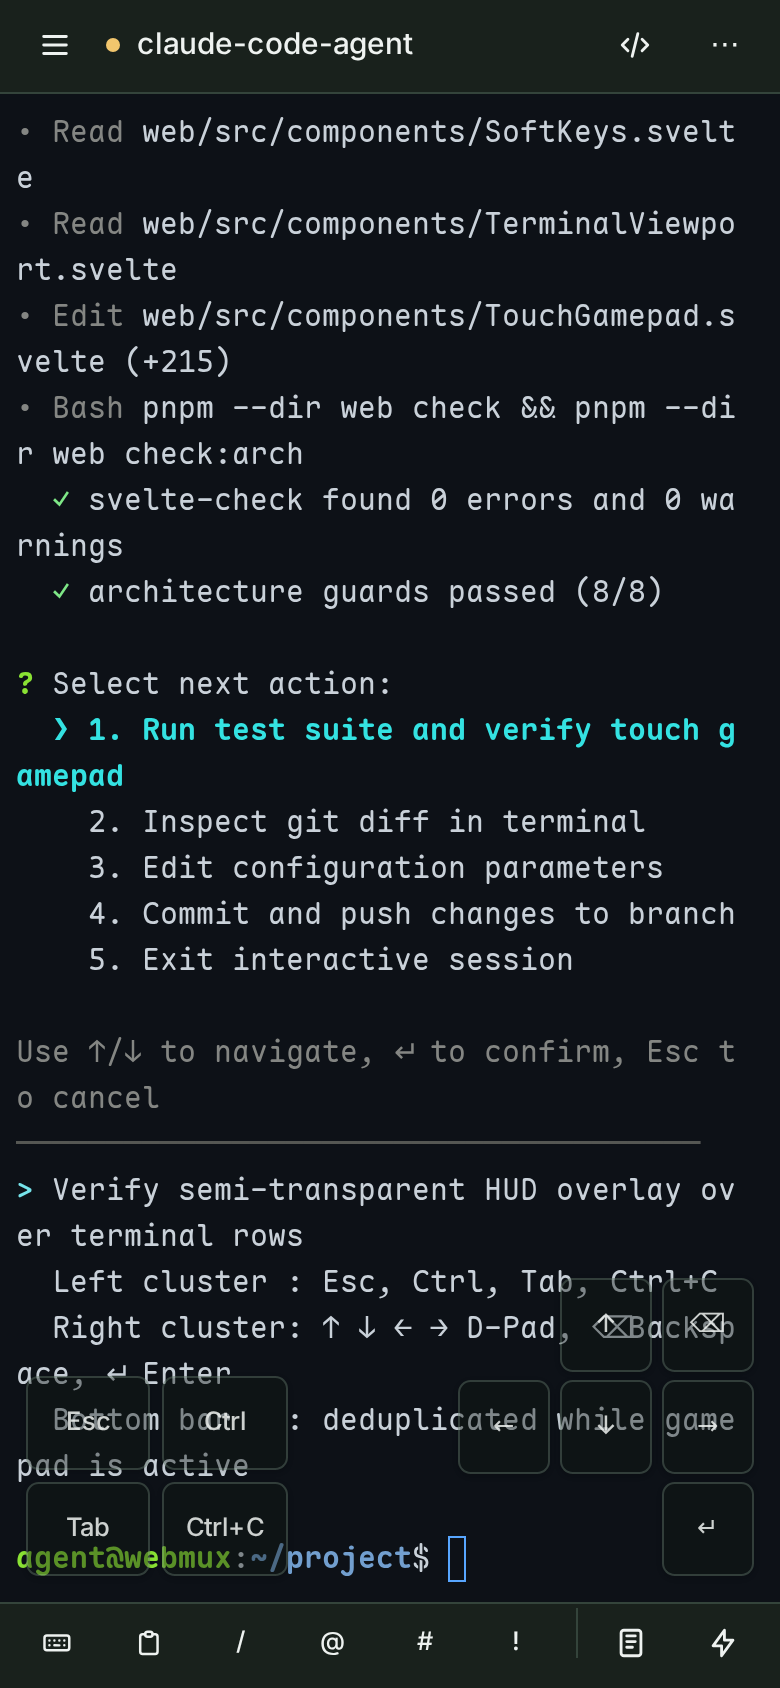
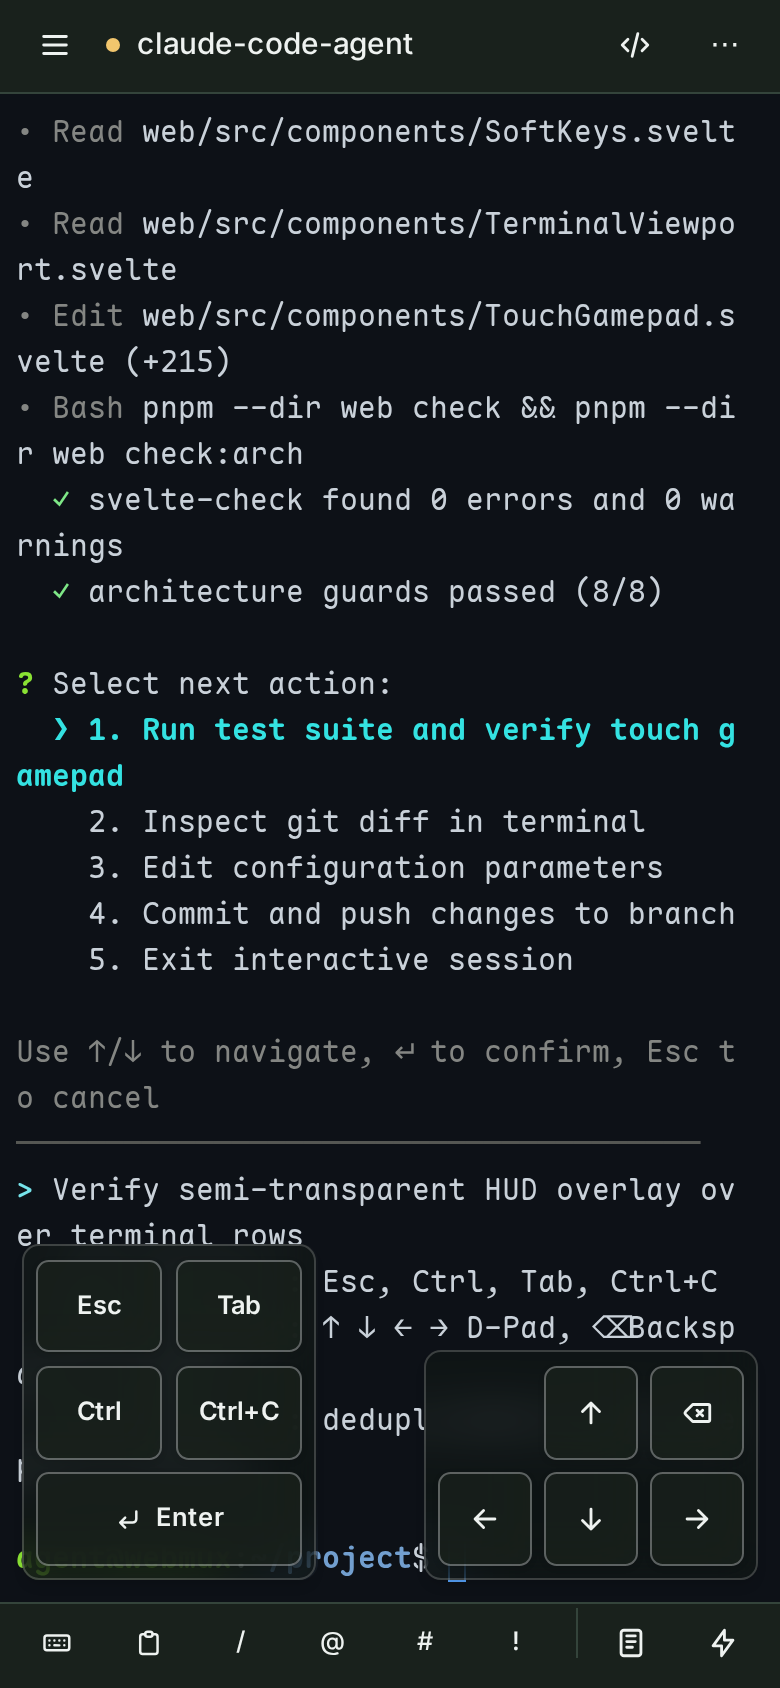
feat(web): refine touch gamepad HUD visibility and move Enter to left cluster

diff --git a/web/src/components/TouchGamepad.svelte b/web/src/components/TouchGamepad.svelte
@@ -1,5 +1,11 @@
 <script lang="ts">
   import { onDestroy } from "svelte";
+  import IconArrowDown from "~icons/tabler/arrow-down";
+  import IconArrowLeft from "~icons/tabler/arrow-left";
+  import IconArrowRight from "~icons/tabler/arrow-right";
+  import IconArrowUp from "~icons/tabler/arrow-up";
+  import IconBackspace from "~icons/tabler/backspace";
+  import IconCornerDownLeft from "~icons/tabler/corner-down-left";
   import { Button } from "$lib/components/ui/button";
   import type { Modifiers } from "../input";
 
@@ -150,11 +156,13 @@
 </script>
 
 <div
-  class="pointer-events-none absolute inset-x-3 bottom-3 z-10 flex items-end justify-between gap-2"
+  class="pointer-events-none absolute inset-x-2.5 bottom-2.5 z-10 flex items-end justify-between gap-2"
   role="toolbar"
   aria-label="终端浮动摇杆"
 >
-  <div class="pointer-events-auto grid grid-cols-2 gap-1.5">
+  <div
+    class="border-foreground/20 bg-background/55 pointer-events-auto grid grid-cols-2 gap-1.5 rounded-lg border p-1.5 shadow-md backdrop-blur-md"
+  >
     <Button
       variant="hud"
       size="sm"
@@ -166,6 +174,18 @@
         event.stopPropagation();
         send("\x1b");
       }}>Esc</Button
+    >
+    <Button
+      variant="hud"
+      size="sm"
+      data-gamepad-key="tab"
+      aria-label="Tab"
+      title="Tab"
+      onmousedown={keepFocus}
+      onclick={(event) => {
+        event.stopPropagation();
+        send("\t");
+      }}>Tab</Button
     >
     <Button
       variant="hud"
@@ -183,18 +203,6 @@
     <Button
       variant="hud"
       size="sm"
-      data-gamepad-key="tab"
-      aria-label="Tab"
-      title="Tab"
-      onmousedown={keepFocus}
-      onclick={(event) => {
-        event.stopPropagation();
-        send("\t");
-      }}>Tab</Button
-    >
-    <Button
-      variant="hud"
-      size="sm"
       data-gamepad-key="ctrl-c"
       aria-label="Ctrl+C"
       title="Ctrl+C"
@@ -204,13 +212,31 @@
         send("\x03");
       }}>Ctrl+C</Button
     >
+    <Button
+      variant="hud"
+      size="sm"
+      class="col-span-2 w-full"
+      data-gamepad-key="enter"
+      aria-label="回车"
+      title="回车"
+      onmousedown={keepFocus}
+      onclick={(event) => {
+        event.stopPropagation();
+        send("\r");
+      }}
+    >
+      <IconCornerDownLeft aria-hidden="true" />
+      <span>Enter</span>
+    </Button>
   </div>
 
-  <div class="pointer-events-auto grid grid-cols-3 gap-1">
+  <div
+    class="border-foreground/20 bg-background/55 pointer-events-auto grid grid-cols-3 gap-1.5 rounded-lg border p-1.5 shadow-md backdrop-blur-md"
+  >
     <div class="col-start-2 row-start-1">
       <Button
         variant="hud"
-        size="sm"
+        size="icon-sm"
         class="w-full"
         data-gamepad-key="up"
         aria-label="向上方向键"
@@ -222,13 +248,15 @@
         onpointerup={endPointer}
         onpointercancel={endPointer}
         onlostpointercapture={stopRepeat}
-        onclick={(event) => clickKey(arrowInputs.up, event)}>↑</Button
+        onclick={(event) => clickKey(arrowInputs.up, event)}
       >
+        <IconArrowUp aria-hidden="true" />
+      </Button>
     </div>
     <div class="col-start-3 row-start-1">
       <Button
         variant="hud"
-        size="sm"
+        size="icon-sm"
         class="w-full"
         data-gamepad-key="backspace"
         aria-label="退格"
@@ -239,13 +267,15 @@
         onpointerup={endPointer}
         onpointercancel={endPointer}
         onlostpointercapture={stopRepeat}
-        onclick={(event) => clickKey("\x7f", event)}>⌫</Button
+        onclick={(event) => clickKey("\x7f", event)}
       >
+        <IconBackspace aria-hidden="true" />
+      </Button>
     </div>
     <div class="col-start-1 row-start-2">
       <Button
         variant="hud"
-        size="sm"
+        size="icon-sm"
         class="w-full"
         data-gamepad-key="left"
         aria-label="向左方向键"
@@ -257,13 +287,15 @@
         onpointerup={endPointer}
         onpointercancel={endPointer}
         onlostpointercapture={stopRepeat}
-        onclick={(event) => clickKey(arrowInputs.left, event)}>←</Button
+        onclick={(event) => clickKey(arrowInputs.left, event)}
       >
+        <IconArrowLeft aria-hidden="true" />
+      </Button>
     </div>
     <div class="col-start-2 row-start-2">
       <Button
         variant="hud"
-        size="sm"
+        size="icon-sm"
         class="w-full"
         data-gamepad-key="down"
         aria-label="向下方向键"
@@ -275,13 +307,15 @@
         onpointerup={endPointer}
         onpointercancel={endPointer}
         onlostpointercapture={stopRepeat}
-        onclick={(event) => clickKey(arrowInputs.down, event)}>↓</Button
+        onclick={(event) => clickKey(arrowInputs.down, event)}
       >
+        <IconArrowDown aria-hidden="true" />
+      </Button>
     </div>
     <div class="col-start-3 row-start-2">
       <Button
         variant="hud"
-        size="sm"
+        size="icon-sm"
         class="w-full"
         data-gamepad-key="right"
         aria-label="向右方向键"
@@ -293,23 +327,10 @@
         onpointerup={endPointer}
         onpointercancel={endPointer}
         onlostpointercapture={stopRepeat}
-        onclick={(event) => clickKey(arrowInputs.right, event)}>→</Button
+        onclick={(event) => clickKey(arrowInputs.right, event)}
       >
-    </div>
-    <div class="col-start-3 row-start-3">
-      <Button
-        variant="hud"
-        size="sm"
-        class="w-full"
-        data-gamepad-key="enter"
-        aria-label="回车"
-        title="回车"
-        onmousedown={keepFocus}
-        onclick={(event) => {
-          event.stopPropagation();
-          send("\r");
-        }}>↵</Button
-      >
+        <IconArrowRight aria-hidden="true" />
+      </Button>
     </div>
   </div>
 </div>

diff --git a/web/src/lib/components/ui/button/button.svelte b/web/src/lib/components/ui/button/button.svelte
@@ -29,7 +29,7 @@
         // A ghost button whose resting text recedes until hovered.
         quiet: `text-muted-foreground hover:bg-muted hover:text-foreground dark:hover:bg-muted/50 ${active}`,
         // Semi-transparent overlay control floating above terminal content.
-        hud: `border-border/50 bg-background/40 text-foreground/85 shadow-sm hover:bg-background/75 hover:text-foreground active:bg-background/85 dark:border-input/50 dark:bg-background/40 dark:hover:bg-background/70 ${active}`,
+        hud: `border-foreground/30 bg-card/75 text-foreground font-semibold shadow-sm backdrop-blur-md hover:border-foreground/50 hover:bg-card/90 active:bg-accent/90 dark:border-foreground/35 dark:bg-card/75 dark:hover:bg-card/90 ${active}`,
       },
       size: {
         default:

diff --git a/openspec/changes/add-terminal-touch-gamepad/proposal.md b/openspec/changes/add-terminal-touch-gamepad/proposal.md
@@ -15,9 +15,9 @@
   - 浮动摇杆与功能键**仅在当前客户端已接管终端控制权（`t.controlling === true`）**、会话连接正常且未退出、处于终端视图（非代码独占或聊天视图）时显示。
   - 当处于观察端（`!t.controlling`）时隐藏浮动按键，避免观察端误触抢夺控制权或遮挡观察画面；一旦用户点击“接管控制”或输入成为控制端，浮动按键立即显现。
 - **半透明浮动方向盘与高频按键布局（新增 `web/src/components/TouchGamepad.svelte`）**：
-  - 在 `.terminal-area` 左右下角对称浮动两组半透明控件（默认低不透明度且无背景遮挡感，手指按下时反馈清晰，不阻挡阅读底下的终端输出）：
-    - **左侧高频功能键组**：包含 `Esc`、`Ctrl`（与现有 `modifiers.ctrl` 状态双向同步）、`Tab`、`Ctrl+C`；
-    - **右侧方向盘（D-Pad / 滑动摇杆）与编辑键**：包含十字方向键 `↑` `↓` `←` `→`（支持点按及按住向四向滑动连发）以及紧邻的退格键 `⌫`（`\x7f`，支持长按连发）与回车键 `↵`（`\r`）。
+  - 在 `.terminal-area` 左右下角对称浮动两组带毛玻璃胶囊底座（`backdrop-blur-md`）与高对比描边的半透明控件（柔化按钮正下方字符以保证键帽清晰可读，中间与上方完全留空不遮挡终端阅读）：
+    - **左侧高频功能与确认键组**：包含 `Esc`、`Tab`、`Ctrl`（与现有 `modifiers.ctrl` 状态双向同步）、`Ctrl+C`，以及位于底部通栏的宽大回车键 `↵ Enter`（`\r`）；
+    - **右侧方向盘（D-Pad / 滑动摇杆）与退格键**：包含十字方向键 `↑` `↓` `←` `→`（采用清晰 Tabler 图标，支持点按及按住向四向滑动连发）以及右上角的退格键 `⌫`（`\x7f`，支持长按连发）。
 - **触摸穿透与终端滚动互不干扰**：
   - 浮动控件容器本身设为 `pointer-events-none`，仅各独立按钮/摇杆响应指针事件并调用 `stopPropagation()` 与 `preventDefault()`（同时阻止兼容层 `mousedown` 夺取或丢失焦点）。
   - 手指未碰到这几个浮动按钮时，在终端任意位置（包括按钮之间的空隙）滑动，照常由底层 `attachTouchGestures` 处理终端滚屏与长按选词；手指按在方向盘或浮动键上滑动时，指针被该控件捕获，彻底屏蔽底层终端滚动。

diff --git a/openspec/changes/add-terminal-touch-gamepad/design.md b/openspec/changes/add-terminal-touch-gamepad/design.md
@@ -55,13 +55,14 @@
 ### D4 左右分区的动作手游式布局与摇杆滑动连发手势
 
 - **决策**：
-  - **左侧拇指区（高频控制簇，2×2 紧凑网格）**：
-    - 第一行：`Esc`（`\x1b`）、`Ctrl`（修饰键开关，`aria-pressed={modifiers.ctrl}`）；
-    - 第二行：`Tab`（`\t`）、`Ctrl+C`（`\x03`）。
-  - **右侧拇指区（十字方向摇杆 D-Pad + `⌫` / `↵`）**：
-    - 采用紧凑的 3×3 网格布局：
-      - 上中：`↑`（`\x1b[A`），下中：`↓`（`\x1b[B`），左中：`←`（`\x1b[D`），右中：`→`（`\x1b[C`）；
-      - 右上角：`⌫`（退格 `\x7f`，带 `IconBackspace`），右下角（或中心）：`↵`（回车 `\r`，带 `IconCornerDownLeft`）。
+  - **左侧拇指区（高频控制与确认簇，毛玻璃胶囊底座）**：
+    - 第一行：`Esc`（`\x1b`）、`Tab`（`\t`）；
+    - 第二行：`Ctrl`（修饰键开关，`aria-pressed={modifiers.ctrl}`）、`Ctrl+C`（`\x03`）；
+    - 第三行（跨两列宽键）：`↵ Enter`（回车 `\r`，带 `IconCornerDownLeft`），符合“右手方向键选择、左手直接回车确认或 Esc 取消”的双手操作直觉。
+  - **右侧拇指区（十字方向摇杆 D-Pad + `⌫`，毛玻璃胶囊底座）**：
+    - 采用紧凑的 3×2 网格布局（使用高辨识度 Tabler 矢量图标）：
+      - 上中：`↑`（`\x1b[A`），右上：`⌫`（退格 `\x7f`，带 `IconBackspace`）；
+      - 下排：`←`（`\x1b[D`）、`↓`（`\x1b[B`）、`→`（`\x1b[C`）。
     - **摇杆滑动与长按连发机制**：
       - 用户既可以直接点按/长按单个方向键或 `⌫` 键（按下立即发送一次，按住 350ms 后每 75ms 自动连发）；
       - 也可以把右侧十字区当作**滑动摇杆**：手指在方向盘任意键按下后（通过 `setPointerCapture` 捕获指针），无需抬起手指，直接向 `↑`、`↓`、`←`、`→` 方向拖动偏移超过阈值（如 14px），即自动切换为目标方向并持续连发对应方向键，带来动作手游虚拟摇杆的顺滑手感。

diff --git a/openspec/changes/add-terminal-touch-gamepad/specs/terminal-touch-gamepad/spec.md b/openspec/changes/add-terminal-touch-gamepad/specs/terminal-touch-gamepad/spec.md
@@ -46,8 +46,8 @@
    - 浮动按键在静置时 SHALL 采用半透明表面（透过按键仍可辨识下方的终端文字），按下激活时提高对比度以给出明确触控反馈；
    - 按键点击或滑动时 SHALL 保持当前输入焦点（不意外收起已打开的软键盘，也不在未打开键盘时被动拉起系统软键盘）。
 2. **按键集合与输入映射**：
-   - **左侧高频功能键簇**：提供 `Esc`（`\x1b`）、`Ctrl`（修饰键，与 `modifiers.ctrl` 状态同步并以 `aria-pressed` 指示激活）、`Tab`（`\t`）与 `Ctrl+C`（`\x03`）；
-   - **右侧方向盘（D-Pad / 摇杆）与退格/确认键**：提供 `↑`（`\x1b[A`）、`↓`（`\x1b[B`）、`←`（`\x1b[D`）、`→`（`\x1b[C`）、退格键 `⌫`（`\x7f`）与回车键 `↵`（`\r`）；
+   - **左侧高频功能与确认键簇**：提供 `Esc`（`\x1b`）、`Tab`（`\t`）、`Ctrl`（修饰键，与 `modifiers.ctrl` 状态同步并以 `aria-pressed` 指示激活）、`Ctrl+C`（`\x03`）与底部跨两列的回车键 `↵ Enter`（`\r`）；
+   - **右侧方向盘（D-Pad / 摇杆）与退格键**：提供 `↑`（`\x1b[A`）、`↓`（`\x1b[B`）、`←`（`\x1b[D`）、`→`（`\x1b[C`）与退格键 `⌫`（`\x7f`）；
    - 当 `Ctrl`、`Alt` 或 `Shift` 修饰键处于激活状态时，点击方向键或功能键 SHALL 遵循 `modifiedInput` 规则发送带修饰的序列并释放一次性修饰键；草稿模式开启时，方向键、退格键与回车键 SHALL 作用于草稿框光标与内容，按下 `Esc`、`Ctrl` 或 `Ctrl+C` 则按现有规则提示先退出草稿模式。
 3. **摇杆滑动与长按连发**：
    - 用户手指按住方向盘区域向 `↑`、`↓`、`←`、`→` 方向滑动或按住方向键/退格键 `⌫` 不放时，系统 SHALL 立即触发首次按键，并在按住期间按固定间隔连续发送对应按键序列，松手或取消指针时立即停止。

diff --git a/docs/user-stories/terminal.md b/docs/user-stories/terminal.md
@@ -308,7 +308,7 @@
   - Shift 点按为一次性、长按约 0.5 秒锁定并在再次点按后解除，锁定时按钮显示锁图标；
   - 可与 Tab、方向键、Home/End、翻页组成带 Shift 的序列，点按或锁定后对虚拟与实体键盘的后续输入同样应用 Shift；
   - 符号映射按 US 布局；
-  - 终端菜单“显示”分组提供“软键盘摇杆模式”开关（保存在本机浏览器）：开启且当前客户端已接管控制、连接正常、进程未退出时，在终端底部两侧显示半透明浮动按键（左侧 Esc、Ctrl、Tab、Ctrl+C，右侧十字方向键、退格 `⌫` 与回车 `↵`），观察模式或未接管时不显示；
+  - 终端菜单“显示”分组提供“软键盘摇杆模式”开关（保存在本机浏览器）：开启且当前客户端已接管控制、连接正常、进程未退出时，在终端底部两侧显示半透明毛玻璃浮动按键（左侧 Esc、Tab、Ctrl、Ctrl+C 与回车 `Enter`，右侧十字方向键与退格），观察模式或未接管时不显示；
   - 浮动摇杆的方向键支持按住连发与不抬手滑动切向，退格支持按住连发；摇杆激活时底部软键栏自动隐藏已上浮的重复按键（Esc、Tab、`↵`、Ctrl、方向键、Ctrl+C），未触碰浮动键的终端空白区完全穿透，照常单指滑动滚动与长按选词。
 - **US-H02 主动开合键盘**：作为触摸设备使用者，我希望自己决定何时打开虚拟键盘，以便阅读和点选时保留屏幕空间。
   验收要点：
